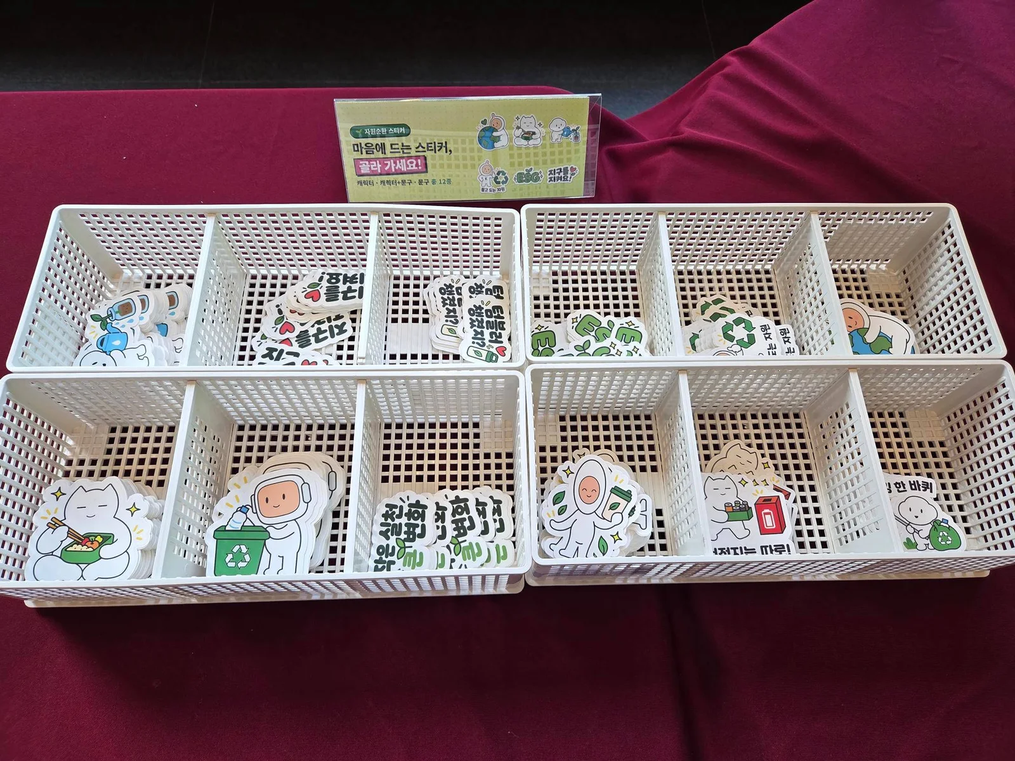
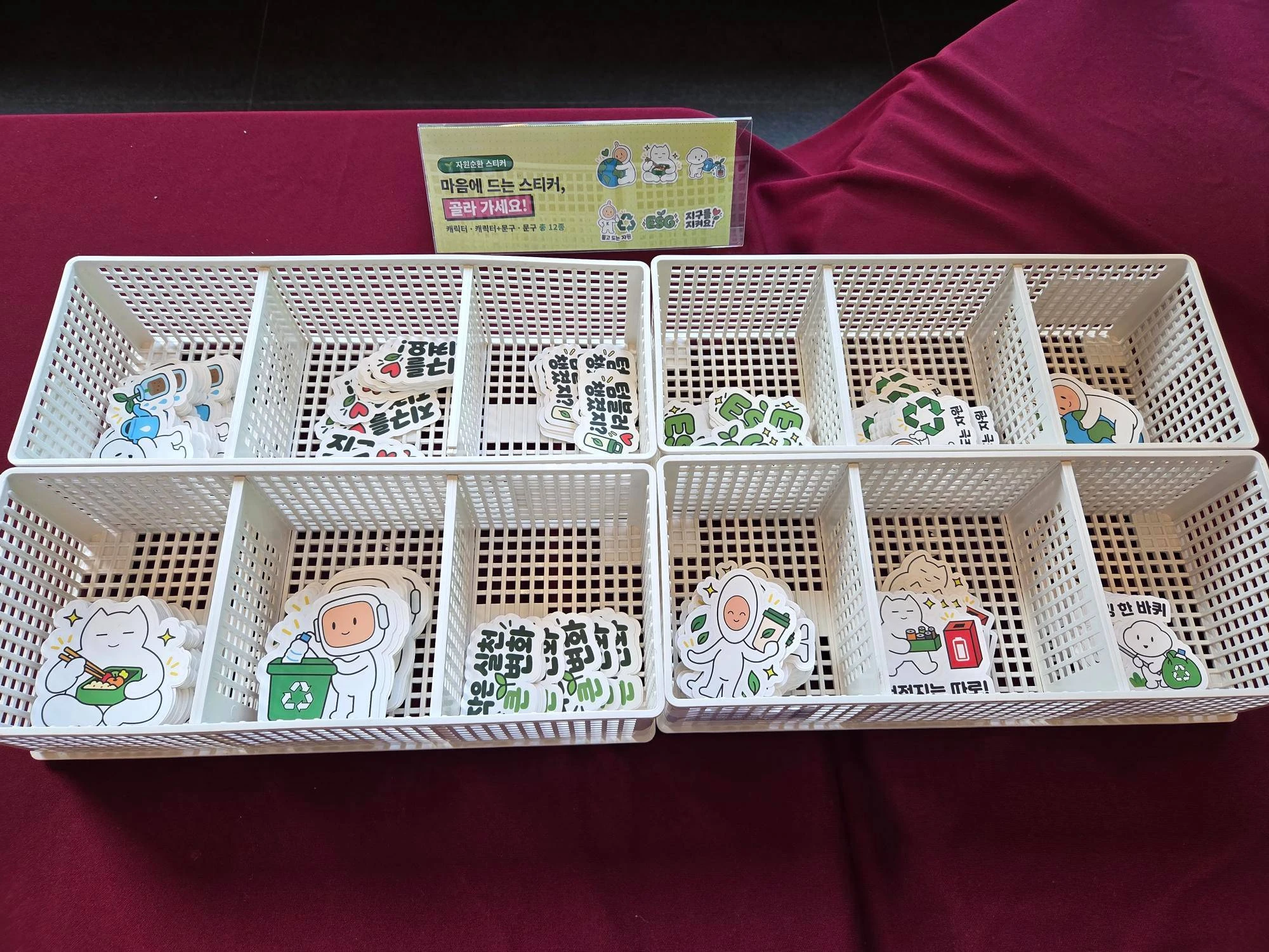
Keycap Season 2: lobby overview, acrylic figures in use, hi-res sticker photo
Claude-Session: https://claude.ai/code/session_01BFCG5mZW9hgWuvcjPHNUrC

diff --git a/index.html b/index.html
@@ -2502,6 +2502,9 @@ a.sn-c:hover{transform:translateY(-3px);box-shadow:0 0 0 1.5px var(--brand),0 24
 .kk-fp img{position:absolute;inset:0;width:100%;height:100%;object-fit:cover}
 @media (max-width:760px){ .kk-field{grid-template-columns:minmax(0,1fr) minmax(0,1fr)} .kk-fm{grid-column:1/-1;grid-row:2;grid-template-rows:none;grid-template-columns:1fr 1fr} }
 .kk-s2f{grid-template-columns:minmax(0,3fr) minmax(0,4fr) minmax(0,4fr);aspect-ratio:2.05/1}
+.kk-s2u{display:grid;grid-template-columns:minmax(0,1.333fr) minmax(0,.5625fr) minmax(0,1.333fr);gap:14px;margin-top:14px}
+.kk-s2u .kk-fp:nth-child(1),.kk-s2u .kk-fp:nth-child(3){aspect-ratio:4/3}.kk-s2u .kk-fp:nth-child(2){aspect-ratio:9/16}
+@media (max-width:760px){ .kk-s2u{grid-template-columns:minmax(0,.5625fr) minmax(0,1.333fr)} .kk-s2u .kk-fp:first-child{grid-column:1/-1} }
 .kk-s2f .kk-fp{aspect-ratio:auto!important}
 @media (max-width:760px){ .kk-s2f{aspect-ratio:auto;grid-template-columns:minmax(0,1fr) minmax(0,1fr)} .kk-s2f .kk-fc{grid-column:1/-1} .kk-s2f .kk-fc .kk-fp{aspect-ratio:3/4!important} .kk-s2f .kk-fm{grid-column:auto;grid-row:auto;grid-template-columns:none;grid-template-rows:auto auto} .kk-s2f .kk-fm .kk-fp{aspect-ratio:4/3!important} }
 .kk-s2m{display:grid;grid-template-columns:repeat(3,minmax(0,1fr));gap:16px;margin:0 0 28px}
@@ -4705,8 +4708,10 @@ go(0);})();
     <div class="kk-field kk-s2f">
       <div class="kk-fc"><button class="ib-ph kk-fp" type="button" data-kk-lb="s2-zone" aria-label="시즌 2 캠페인 존 — 3D 가온프렌즈 사이니지와 배너·수거함 크게 보기"><img src="assets/keycap/s2-zone.webp" alt="시즌 2 캠페인 존 — 3D 가온프렌즈 사이니지와 배너·수거함" loading="lazy" decoding="async"><span class="tg">Campaign Zone · S2</span></button></div>
       <div class="kk-fm"><button class="ib-ph kk-fp" type="button" data-kk-lb="s2-acrylic" aria-label="아크릴 피규어 3종 — 케이·솔루·메버릭과 키캡 키링 크게 보기"><img src="assets/keycap/s2-acrylic.webp" alt="아크릴 피규어 3종 — 케이·솔루·메버릭과 키캡 키링" loading="lazy" decoding="async"><span class="tg">Acrylic Figures</span></button><button class="ib-ph kk-fp" type="button" data-kk-lb="s2-acrylic-table" aria-label="랜덤 굿즈 뽑기 테이블과 캐릭터별 안내 카드 크게 보기"><img src="assets/keycap/s2-acrylic-table.webp" alt="랜덤 굿즈 뽑기 테이블과 캐릭터별 안내 카드" loading="lazy" decoding="async"><span class="tg">Random Goods</span></button></div>
-      <div class="kk-fm"><button class="ib-ph kk-fp" type="button" data-kk-lb="s2-stickers" aria-label="자원순환 스티커 12종 — 골라 가는 스티커 존 크게 보기"><img src="assets/keycap/s2-stickers.webp" alt="자원순환 스티커 12종 — 골라 가는 스티커 존" loading="lazy" decoding="async"><span class="tg">Stickers · 12</span></button><button class="ib-ph kk-fp" type="button" data-kk-lb="s2-sticker-hand" aria-label="메버릭 도시락 스티커와 ESG 스티커 크게 보기"><img src="assets/keycap/s2-sticker-hand.webp" alt="메버릭 도시락 스티커와 ESG 스티커" loading="lazy" decoding="async"><span class="tg">Sticker Detail</span></button></div>
+      <div class="kk-fm"><button class="ib-ph kk-fp" type="button" data-kk-lb="s2-stickers" aria-label="자원순환 스티커 12종 — 골라 가는 스티커 존 크게 보기"><img src="assets/keycap/s2-stickers.webp?v=2" alt="자원순환 스티커 12종 — 골라 가는 스티커 존" loading="lazy" decoding="async"><span class="tg">Stickers · 12</span></button><button class="ib-ph kk-fp" type="button" data-kk-lb="s2-sticker-hand" aria-label="메버릭 도시락 스티커와 ESG 스티커 크게 보기"><img src="assets/keycap/s2-sticker-hand.webp" alt="메버릭 도시락 스티커와 ESG 스티커" loading="lazy" decoding="async"><span class="tg">Sticker Detail</span></button></div>
     </div>
+    <div class="kk-s2u"><button class="ib-ph kk-fp" type="button" data-kk-lb="s2-lobby" aria-label="시즌 2 캠페인 로비 전경 — 3D 사이니지, 배너, 수거함 크게 보기"><img src="assets/keycap/s2-lobby.webp" alt="시즌 2 캠페인 로비 전경 — 3D 사이니지, 배너, 수거함" loading="lazy" decoding="async"><span class="tg">Lobby · S2</span></button><button class="ib-ph kk-fp" type="button" data-kk-lb="s2-desk" aria-label="책상 모니터 받침 위에 세운 아크릴 피규어 3종 크게 보기"><img src="assets/keycap/s2-desk.webp" alt="책상 모니터 받침 위에 세운 아크릴 피규어 3종" loading="lazy" decoding="async"><span class="tg">On the Desk</span></button><button class="ib-ph kk-fp" type="button" data-kk-lb="s2-office" aria-label="사무실 파티션 위에 나란히 세운 아크릴 피규어 3종 크게 보기"><img src="assets/keycap/s2-office.webp" alt="사무실 파티션 위에 나란히 세운 아크릴 피규어 3종" loading="lazy" decoding="async"><span class="tg">In the Office</span></button></div>
+    <p class="f3-note">배포 후 임직원 책상과 사무실 파티션 위에 놓인 아크릴 피규어입니다.</p>
 
     <div class="cl-h" style="margin-top:clamp(48px,6vw,80px)"><span class="no" style="color:var(--g)">Acrylic Figure Artwork</span><h3>아크릴 등신대 3종</h3><p>지구를 안아 주는 케이, 자원순환 마크 속 솔루, 폐건전지를 모으는 메버릭을 랜덤 뽑기 굿즈로 만들었습니다. 본체와 "지구를 위한 실천" 문구를 넣은 타원 받침을 끼워 세우는 구조이고, 분홍 선은 아크릴 칼선입니다. 세 캐릭터의 높이를 45mm로 맞춰 나란히 세웠을 때 한 세트로 보이게 했습니다.</p></div>
     <div class="ac-row"><figure class="ac-card"><div class="ac-stage"><button class="ac-fig" type="button" data-kk-lb="ac1" style="--w:64.3%" aria-label="케이 아크릴 등신대 크게 보기"><img src="assets/keycap/ac1-fig.png" alt="아크릴 등신대 — 지구를 꼭 안아 주는 케이" loading="lazy" decoding="async"></button><img class="ac-base" src="assets/keycap/ac1-base.png" alt="받침대 — 지구를 위한 실천" loading="lazy" decoding="async"></div><figcaption><small>NO.1</small><b>지구를 꼭 안아 주는 케이</b><span>본체 38.7 × 45 mm · 받침 60 × 48 mm</span></figcaption></figure><figure class="ac-card"><div class="ac-stage"><button class="ac-fig" type="button" data-kk-lb="ac2" style="--w:77.4%" aria-label="솔루 아크릴 등신대 크게 보기"><img src="assets/keycap/ac2-fig.png" alt="아크릴 등신대 — 빙글빙글 자원순환 솔루" loading="lazy" decoding="async"></button><img class="ac-base" src="assets/keycap/ac2-base.png" alt="받침대 — 지구를 위한 실천" loading="lazy" decoding="async"></div><figcaption><small>NO.2</small><b>빙글빙글 자원순환 솔루</b><span>본체 46.6 × 45 mm · 받침 60 × 48 mm</span></figcaption></figure><figure class="ac-card"><div class="ac-stage"><button class="ac-fig" type="button" data-kk-lb="ac3" style="--w:50.2%" aria-label="메버릭 아크릴 등신대 크게 보기"><img src="assets/keycap/ac3-fig.png" alt="아크릴 등신대 — 폐건전지 모으는 메버릭" loading="lazy" decoding="async"></button><img class="ac-base" src="assets/keycap/ac3-base.png" alt="받침대 — 지구를 위한 실천" loading="lazy" decoding="async"></div><figcaption><small>NO.3</small><b>폐건전지 모으는 메버릭</b><span>본체 30.2 × 45 mm · 받침 60 × 48 mm</span></figcaption></figure></div>
@@ -5727,7 +5732,7 @@ addEventListener('keydown',e=>{ if(lb.hidden) return; if(e.key==='Escape'){e.sto
 (()=>{ const pg=document.getElementById('pg-garage'); if(!pg) return; const E=[{"k": "a0", "src": "assets/garage/a0@4x.webp?v=2", "alt": "The Garage Archive 심볼 버전 A", "cap": "Version A — Symbol", "g": "garage"}, {"k": "a1", "src": "assets/garage/a1.webp", "alt": "The Garage Archive 로고 버전 A — 블랙 배경 · 그린 + 화이트", "cap": "Version A — On Black · 블랙 배경 · 그린 + 화이트", "g": "garage"}, {"k": "a2", "src": "assets/garage/a2.webp", "alt": "The Garage Archive 로고 버전 A — 브랜드 그린 배경 · 화이트 반전", "cap": "Version A — On Green · 브랜드 그린 배경 · 화이트 반전", "g": "garage"}, {"k": "a3", "src": "assets/garage/a3.webp", "alt": "The Garage Archive 로고 버전 A — 네이비 배경 · 그린 + 화이트", "cap": "Version A — On Navy · 네이비 배경 · 그린 + 화이트", "g": "garage"}, {"k": "a4", "src": "assets/garage/a4.webp", "alt": "The Garage Archive 로고 버전 A — 화이트 배경 · 그린 + 네이비 (기본형)", "cap": "Version A — On White · 화이트 배경 · 그린 + 네이비 (기본형)", "g": "garage"}, {"k": "b0", "src": "assets/garage/b0@4x.webp", "alt": "The Garage Archive 심볼 버전 B", "cap": "Version B — Symbol", "g": "garage"}, {"k": "b1", "src": "assets/garage/b1.webp", "alt": "The Garage Archive 로고 버전 B — 블랙 배경 · 그린 + 화이트", "cap": "Version B — On Black · 블랙 배경 · 그린 + 화이트", "g": "garage"}, {"k": "b2", "src": "assets/garage/b2.webp", "alt": "The Garage Archive 로고 버전 B — 브랜드 그린 배경 · 화이트 반전", "cap": "Version B — On Green · 브랜드 그린 배경 · 화이트 반전", "g": "garage"}, {"k": "b3", "src": "assets/garage/b3.webp", "alt": "The Garage Archive 로고 버전 B — 딥 포레스트 그린 배경 · 그린 + 화이트", "cap": "Version B — On Forest · 딥 포레스트 그린 배경 · 그린 + 화이트", "g": "garage"}, {"k": "b4", "src": "assets/garage/b4.webp", "alt": "The Garage Archive 로고 버전 B — 화이트 배경 · 그린 + 포레스트 그린 (기본형)", "cap": "Version B — On White · 화이트 배경 · 그린 + 포레스트 그린 (기본형)", "g": "garage"}, {"k": "c0", "src": "assets/garage/c0@4x.webp", "alt": "The Garage Archive 심볼", "cap": "Version C — Symbol", "g": "garage"}, {"k": "c1", "src": "assets/garage/c1.webp", "alt": "The Garage Archive 로고 버전 C — 블랙 배경 · 그린 + 화이트", "cap": "Version C — On Black · 블랙 배경 · 그린 + 화이트", "g": "garage"}, {"k": "c2", "src": "assets/garage/c2.webp", "alt": "The Garage Archive 로고 버전 C — 브랜드 그린 배경 · 화이트 반전", "cap": "Version C — On Green · 브랜드 그린 배경 · 화이트 반전", "g": "garage"}, {"k": "c3", "src": "assets/garage/c3.webp", "alt": "The Garage Archive 로고 버전 C — 미드나잇 네이비 배경 · 그린 + 화이트", "cap": "Version C — On Midnight · 미드나잇 네이비 배경 · 그린 + 화이트", "g": "garage"}, {"k": "c4", "src": "assets/garage/c4.webp", "alt": "The Garage Archive 로고 버전 C — 화이트 배경 · 그린 + 미드나잇 네이비 (기본형)", "cap": "Version C — On White · 화이트 배경 · 그린 + 미드나잇 네이비 (기본형)", "g": "garage"}, {"k": "card-mock", "src": "assets/garage/card-mock.webp", "alt": "명함 목업", "cap": "Business Card — 명함 목업", "g": "garage"}, {"k": "card-front", "src": "assets/garage/card-front.webp", "alt": "앞면", "cap": "Business Card — 앞면", "g": "garage"}, {"k": "card-back", "src": "assets/garage/card-back.webp", "alt": "뒷면", "cap": "Business Card — 뒷면", "g": "garage"}]; const base=LB.length; E.forEach(e=>LB.push({src:e.src,alt:e.alt,cap:e.cap,g:e.g}));
   pg.addEventListener('click',e=>{ const b=e.target.closest('[data-ga-lb]'); if(!b) return; const i=E.findIndex(x=>x.k===b.dataset.gaLb); if(i>=0) lbOpen(base+i); });
 })();
-(()=>{ const pg=document.getElementById('pg-keycap'); if(!pg) return; const E=[{"k": "m1", "src": "assets/keycap/m1.webp", "alt": "키캡 키링 정면 — 지구와 함께 · 재활용 마크 세트", "cap": "Product — Product · Front", "g": "keycap"}, {"k": "m2", "src": "assets/keycap/m2.webp", "alt": "키캡 키링 — 흰 키캡 버전", "cap": "Product — White Keycap", "g": "keycap"}, {"k": "m3", "src": "assets/keycap/m3.webp", "alt": "키캡 키링 — 스냅 고리 버전", "cap": "Product — Snap Hook", "g": "keycap"}, {"k": "m4", "src": "assets/keycap/m4.webp", "alt": "키캡 키링 — 측면 클리커 버전", "cap": "Product — Clicker", "g": "keycap"}, {"k": "k1", "src": "assets/keycap/k1.webp", "alt": "Enter · 재활용 마크", "cap": "Keycap 01 — Enter · 재활용 마크", "g": "keycap"}, {"k": "k2", "src": "assets/keycap/k2.webp", "alt": "Enter · 분리수거함", "cap": "Keycap 02 — Enter · 분리수거함", "g": "keycap"}, {"k": "k3", "src": "assets/keycap/k3.webp", "alt": "Enter · 지구 안기", "cap": "Keycap 03 — Enter · 지구 안기", "g": "keycap"}, {"k": "k4", "src": "assets/keycap/k4.webp", "alt": "재활용 마크", "cap": "Keycap 04 — 재활용 마크", "g": "keycap"}, {"k": "k5", "src": "assets/keycap/k5.webp", "alt": "분리배출", "cap": "Keycap 05 — 분리배출", "g": "keycap"}, {"k": "k6", "src": "assets/keycap/k6.webp", "alt": "지구와 함께", "cap": "Keycap 06 — 지구와 함께", "g": "keycap"}, {"k": "c4", "src": "assets/keycap/c4.webp", "alt": "캠페인 메인 사이니지 — 비우고, 모으고, 함께 순환", "cap": "Campaign Field — Main Signage", "g": "keycap"}, {"k": "c1", "src": "assets/keycap/c1.webp", "alt": "1층 로비 캠페인 존 — 배너와 전자제품 수거함", "cap": "Campaign Field — Campaign Zone", "g": "keycap"}, {"k": "c3", "src": "assets/keycap/c3.webp", "alt": "집중 배출일 현장 — 로비 수거 부스", "cap": "Campaign Field — Collection Day", "g": "keycap"}, {"k": "c2", "src": "assets/keycap/c2.webp", "alt": "참여 임직원에게 키캡 키링 배포", "cap": "Campaign Field — Goods Hand-out", "g": "keycap"}, {"k": "s2-zone", "src": "assets/keycap/s2-zone.webp", "alt": "시즌 2 캠페인 존 — 3D 가온프렌즈 사이니지와 배너·수거함", "cap": "Season 2 — Campaign Zone · S2", "g": "keycap"}, {"k": "s2-acrylic", "src": "assets/keycap/s2-acrylic.webp", "alt": "아크릴 피규어 3종 — 케이·솔루·메버릭과 키캡 키링", "cap": "Season 2 — Acrylic Figures", "g": "keycap"}, {"k": "s2-acrylic-table", "src": "assets/keycap/s2-acrylic-table.webp", "alt": "랜덤 굿즈 뽑기 테이블과 캐릭터별 안내 카드", "cap": "Season 2 — Random Goods", "g": "keycap"}, {"k": "s2-stickers", "src": "assets/keycap/s2-stickers.webp", "alt": "자원순환 스티커 12종 — 골라 가는 스티커 존", "cap": "Season 2 — Stickers · 12", "g": "keycap"}, {"k": "s2-sticker-hand", "src": "assets/keycap/s2-sticker-hand.webp", "alt": "메버릭 도시락 스티커와 ESG 스티커", "cap": "Season 2 — Sticker Detail", "g": "keycap"}, {"k": "st01", "src": "assets/keycap/st01.png?v=2", "alt": "지구를 안아 주는 케이", "cap": "Sticker 01 — 지구를 안아 주는 케이", "g": "keycap"}, {"k": "st02", "src": "assets/keycap/st02.png?v=2", "alt": "분리배출하는 로비", "cap": "Sticker 02 — 분리배출하는 로비", "g": "keycap"}, {"k": "st03", "src": "assets/keycap/st03.png?v=2", "alt": "다회용 컵 쓰는 파이", "cap": "Sticker 03 — 다회용 컵 쓰는 파이", "g": "keycap"}, {"k": "st04", "src": "assets/keycap/st04.png?v=2", "alt": "도시락 싸 온 메버릭", "cap": "Sticker 04 — 도시락 싸 온 메버릭", "g": "keycap"}, {"k": "st05", "src": "assets/keycap/st05.png?v=2", "alt": "새싹 키우는 솔루", "cap": "Sticker 05 — 새싹 키우는 솔루", "g": "keycap"}, {"k": "ac1", "src": "assets/keycap/ac1-fig.png", "alt": "지구를 꼭 안아 주는 케이", "cap": "Acrylic Figure NO.1 — 지구를 꼭 안아 주는 케이", "g": "keycap"}, {"k": "ac2", "src": "assets/keycap/ac2-fig.png", "alt": "빙글빙글 자원순환 솔루", "cap": "Acrylic Figure NO.2 — 빙글빙글 자원순환 솔루", "g": "keycap"}, {"k": "ac3", "src": "assets/keycap/ac3-fig.png", "alt": "폐건전지 모으는 메버릭", "cap": "Acrylic Figure NO.3 — 폐건전지 모으는 메버릭", "g": "keycap"}]; const base=LB.length; E.forEach(e=>LB.push({src:e.src,alt:e.alt,cap:e.cap,g:e.g}));
+(()=>{ const pg=document.getElementById('pg-keycap'); if(!pg) return; const E=[{"k": "m1", "src": "assets/keycap/m1.webp", "alt": "키캡 키링 정면 — 지구와 함께 · 재활용 마크 세트", "cap": "Product — Product · Front", "g": "keycap"}, {"k": "m2", "src": "assets/keycap/m2.webp", "alt": "키캡 키링 — 흰 키캡 버전", "cap": "Product — White Keycap", "g": "keycap"}, {"k": "m3", "src": "assets/keycap/m3.webp", "alt": "키캡 키링 — 스냅 고리 버전", "cap": "Product — Snap Hook", "g": "keycap"}, {"k": "m4", "src": "assets/keycap/m4.webp", "alt": "키캡 키링 — 측면 클리커 버전", "cap": "Product — Clicker", "g": "keycap"}, {"k": "k1", "src": "assets/keycap/k1.webp", "alt": "Enter · 재활용 마크", "cap": "Keycap 01 — Enter · 재활용 마크", "g": "keycap"}, {"k": "k2", "src": "assets/keycap/k2.webp", "alt": "Enter · 분리수거함", "cap": "Keycap 02 — Enter · 분리수거함", "g": "keycap"}, {"k": "k3", "src": "assets/keycap/k3.webp", "alt": "Enter · 지구 안기", "cap": "Keycap 03 — Enter · 지구 안기", "g": "keycap"}, {"k": "k4", "src": "assets/keycap/k4.webp", "alt": "재활용 마크", "cap": "Keycap 04 — 재활용 마크", "g": "keycap"}, {"k": "k5", "src": "assets/keycap/k5.webp", "alt": "분리배출", "cap": "Keycap 05 — 분리배출", "g": "keycap"}, {"k": "k6", "src": "assets/keycap/k6.webp", "alt": "지구와 함께", "cap": "Keycap 06 — 지구와 함께", "g": "keycap"}, {"k": "c4", "src": "assets/keycap/c4.webp", "alt": "캠페인 메인 사이니지 — 비우고, 모으고, 함께 순환", "cap": "Campaign Field — Main Signage", "g": "keycap"}, {"k": "c1", "src": "assets/keycap/c1.webp", "alt": "1층 로비 캠페인 존 — 배너와 전자제품 수거함", "cap": "Campaign Field — Campaign Zone", "g": "keycap"}, {"k": "c3", "src": "assets/keycap/c3.webp", "alt": "집중 배출일 현장 — 로비 수거 부스", "cap": "Campaign Field — Collection Day", "g": "keycap"}, {"k": "c2", "src": "assets/keycap/c2.webp", "alt": "참여 임직원에게 키캡 키링 배포", "cap": "Campaign Field — Goods Hand-out", "g": "keycap"}, {"k": "s2-zone", "src": "assets/keycap/s2-zone.webp", "alt": "시즌 2 캠페인 존 — 3D 가온프렌즈 사이니지와 배너·수거함", "cap": "Season 2 — Campaign Zone · S2", "g": "keycap"}, {"k": "s2-acrylic", "src": "assets/keycap/s2-acrylic.webp", "alt": "아크릴 피규어 3종 — 케이·솔루·메버릭과 키캡 키링", "cap": "Season 2 — Acrylic Figures", "g": "keycap"}, {"k": "s2-acrylic-table", "src": "assets/keycap/s2-acrylic-table.webp", "alt": "랜덤 굿즈 뽑기 테이블과 캐릭터별 안내 카드", "cap": "Season 2 — Random Goods", "g": "keycap"}, {"k": "s2-stickers", "src": "assets/keycap/s2-stickers.webp?v=2", "alt": "자원순환 스티커 12종 — 골라 가는 스티커 존", "cap": "Season 2 — Stickers · 12", "g": "keycap"}, {"k": "s2-sticker-hand", "src": "assets/keycap/s2-sticker-hand.webp", "alt": "메버릭 도시락 스티커와 ESG 스티커", "cap": "Season 2 — Sticker Detail", "g": "keycap"}, {"k": "st01", "src": "assets/keycap/st01.png?v=2", "alt": "지구를 안아 주는 케이", "cap": "Sticker 01 — 지구를 안아 주는 케이", "g": "keycap"}, {"k": "st02", "src": "assets/keycap/st02.png?v=2", "alt": "분리배출하는 로비", "cap": "Sticker 02 — 분리배출하는 로비", "g": "keycap"}, {"k": "st03", "src": "assets/keycap/st03.png?v=2", "alt": "다회용 컵 쓰는 파이", "cap": "Sticker 03 — 다회용 컵 쓰는 파이", "g": "keycap"}, {"k": "st04", "src": "assets/keycap/st04.png?v=2", "alt": "도시락 싸 온 메버릭", "cap": "Sticker 04 — 도시락 싸 온 메버릭", "g": "keycap"}, {"k": "st05", "src": "assets/keycap/st05.png?v=2", "alt": "새싹 키우는 솔루", "cap": "Sticker 05 — 새싹 키우는 솔루", "g": "keycap"}, {"k": "ac1", "src": "assets/keycap/ac1-fig.png", "alt": "지구를 꼭 안아 주는 케이", "cap": "Acrylic Figure NO.1 — 지구를 꼭 안아 주는 케이", "g": "keycap"}, {"k": "ac2", "src": "assets/keycap/ac2-fig.png", "alt": "빙글빙글 자원순환 솔루", "cap": "Acrylic Figure NO.2 — 빙글빙글 자원순환 솔루", "g": "keycap"}, {"k": "ac3", "src": "assets/keycap/ac3-fig.png", "alt": "폐건전지 모으는 메버릭", "cap": "Acrylic Figure NO.3 — 폐건전지 모으는 메버릭", "g": "keycap"}, {"k": "s2-lobby", "src": "assets/keycap/s2-lobby.webp", "alt": "시즌 2 캠페인 로비 전경 — 3D 사이니지, 배너, 수거함", "cap": "Season 2 — Lobby Overview", "g": "keycap"}, {"k": "s2-desk", "src": "assets/keycap/s2-desk.webp", "alt": "책상 모니터 받침 위에 세운 아크릴 피규어 3종", "cap": "Season 2 — Acrylic Figures on a Desk", "g": "keycap"}, {"k": "s2-office", "src": "assets/keycap/s2-office.webp", "alt": "사무실 파티션 위에 나란히 세운 아크릴 피규어 3종", "cap": "Season 2 — Acrylic Figures in the Office", "g": "keycap"}]; const base=LB.length; E.forEach(e=>LB.push({src:e.src,alt:e.alt,cap:e.cap,g:e.g}));
   pg.querySelectorAll('[data-kk-lb]').forEach(b=>b.addEventListener('click',()=>{ const k=E.findIndex(e=>e.k===b.dataset.kkLb); if(k>=0) lbOpen(base+k); }));
 })();
 
